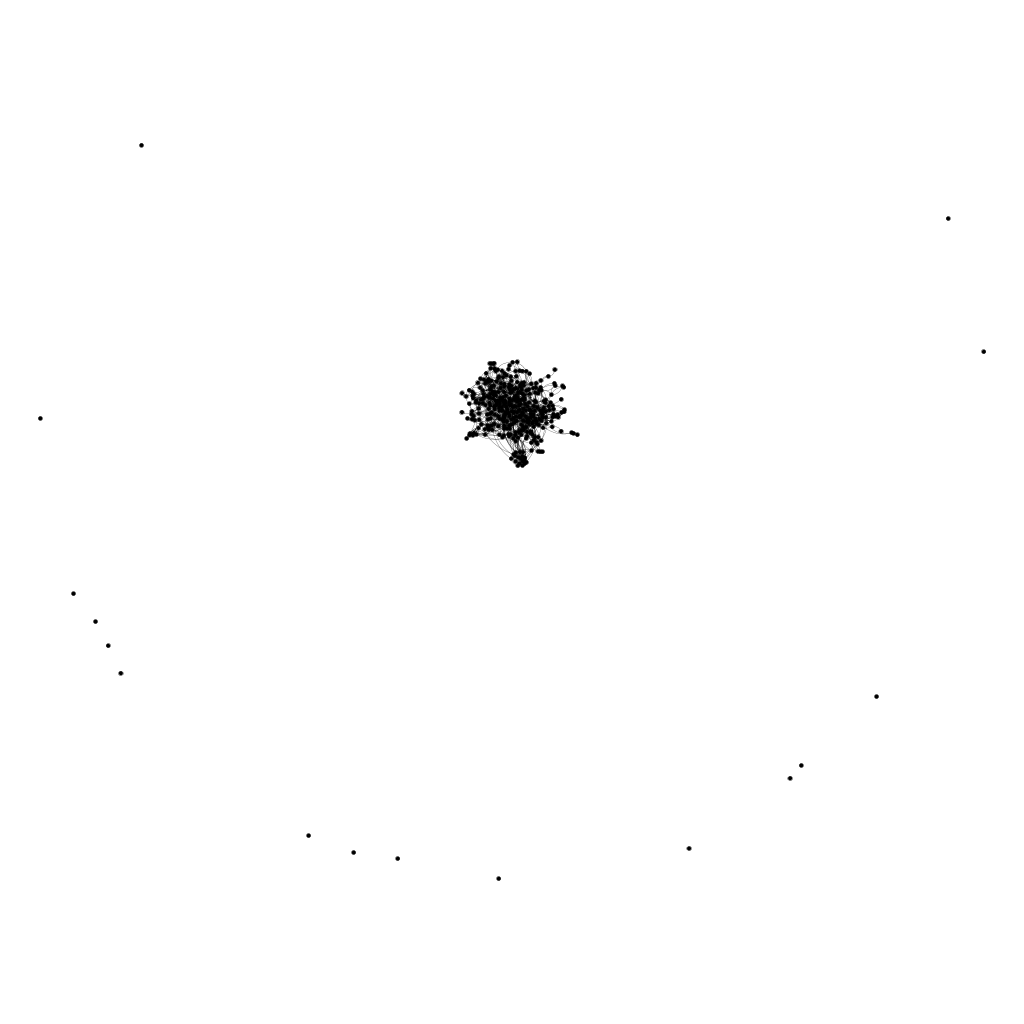
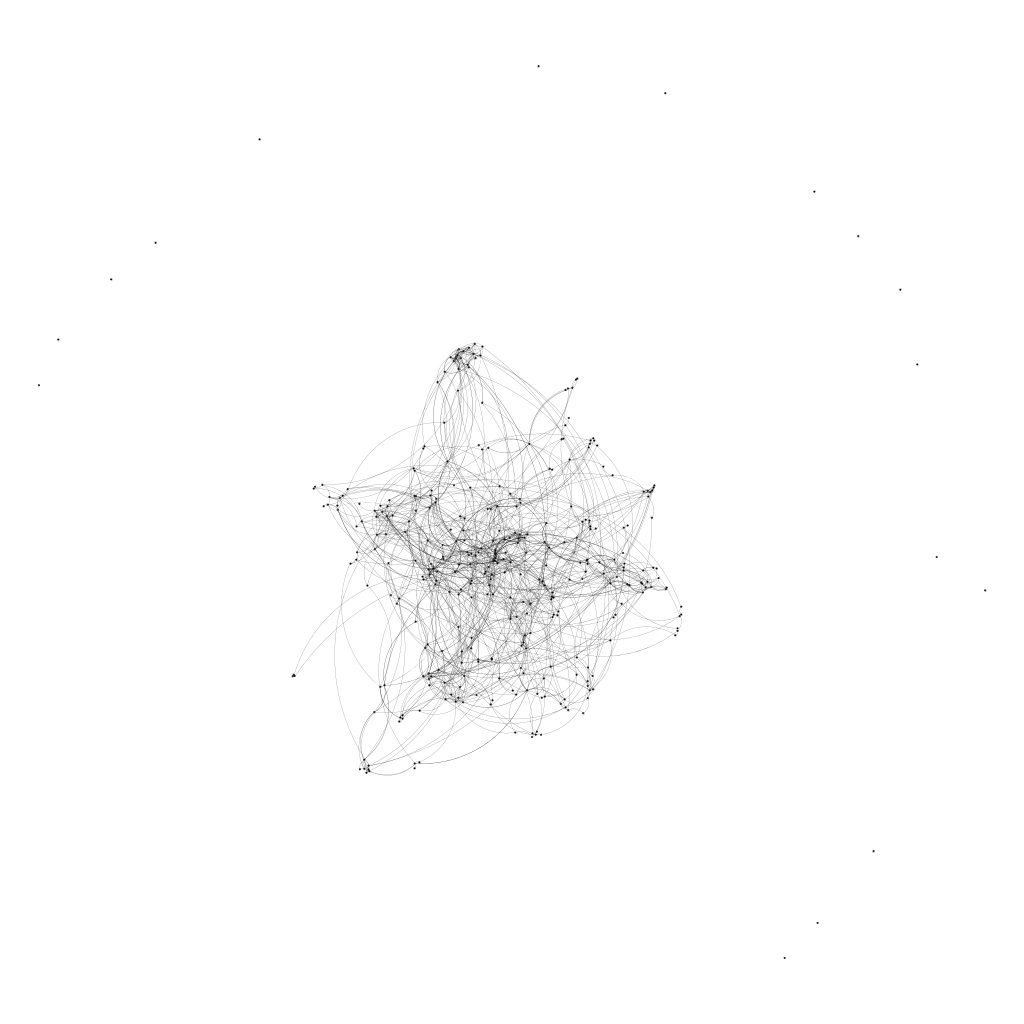
Need to add layout.endAlgo to fix this error

Changed region(s): [[0.3125, 0.3125, 0.6562, 0.75]]

diff --git a/interactGephi.java b/interactGephi.java
@@ -33,7 +33,7 @@ import java.util.concurrent.TimeUnit;
 //A lot of this code is taken from the gephi-toolkit-demos on their github
 //Specifically, the importExport example
 public class interactGephi{
-	public void script(){
+	public static void main (String[] args){
 		ProjectController pc = Lookup.getDefault().lookup(ProjectController.class);
 		pc.newProject();
 		Workspace workspace = pc.getCurrentWorkspace();
@@ -41,7 +41,7 @@ public class interactGephi{
 		ImportController importController = Lookup.getDefault().lookup(ImportController.class);
 		Container container;
 		try{
-			File file = new File(getClass().getResource("./generated_data/servant_voices.gv").toURI());
+			File file = new File(interactGephi.class.getResource("./generated_data/servant_voices.gv").toURI());
 			container = importController.importFile(file);
 			container.getLoader().setEdgeDefault(EdgeDirectionDefault.DIRECTED);
 			container.getLoader().setAllowAutoNode(false);
@@ -61,32 +61,33 @@ public class interactGephi{
 		System.out.println("Nodes: " + graph.getNodeCount());
 		System.out.println("Edges: " + graph.getEdgeCount());
 
-		AutoLayout autoLayout = new AutoLayout(10, TimeUnit.SECONDS);
-		autoLayout.setGraphModel(graphModel);
+//		AutoLayout autoLayout = new AutoLayout(10, TimeUnit.SECONDS);
+//		autoLayout.setGraphModel(graphModel);
+//
+//		layout.setGraphModel(graphModel);
+//		layout.resetPropertiesValues();
+//		layout.setLinLogMode(true);
+//
+//		autoLayout.addLayout(layout, 1f);
+//		autoLayout.execute();
+
+
+
+
 
 		layout.setGraphModel(graphModel);
 		layout.resetPropertiesValues();
 		layout.setLinLogMode(true);
 
-		autoLayout.addLayout(layout, 1f);
-		autoLayout.execute();
 
+		layout.initAlgo();
 
+		for(int i = 0; i < 1000 && layout.canAlgo(); i++){
+			layout.goAlgo();
+		}
 
-	
 		
-//		layout.setGraphModel(graphModel);
-//		layout.resetPropertiesValues();
-//		layout.setLinLogMode(true);
-//
-//
-//		layout.initAlgo();
-//
-//		for(int i = 0; i < 1000 && layout.canAlgo(); i++){
-//			layout.goAlgo();
-//		}
-//
-		
+		layout.endAlgo();
 
 
 		ExportController ec = Lookup.getDefault().lookup(ExportController.class);
